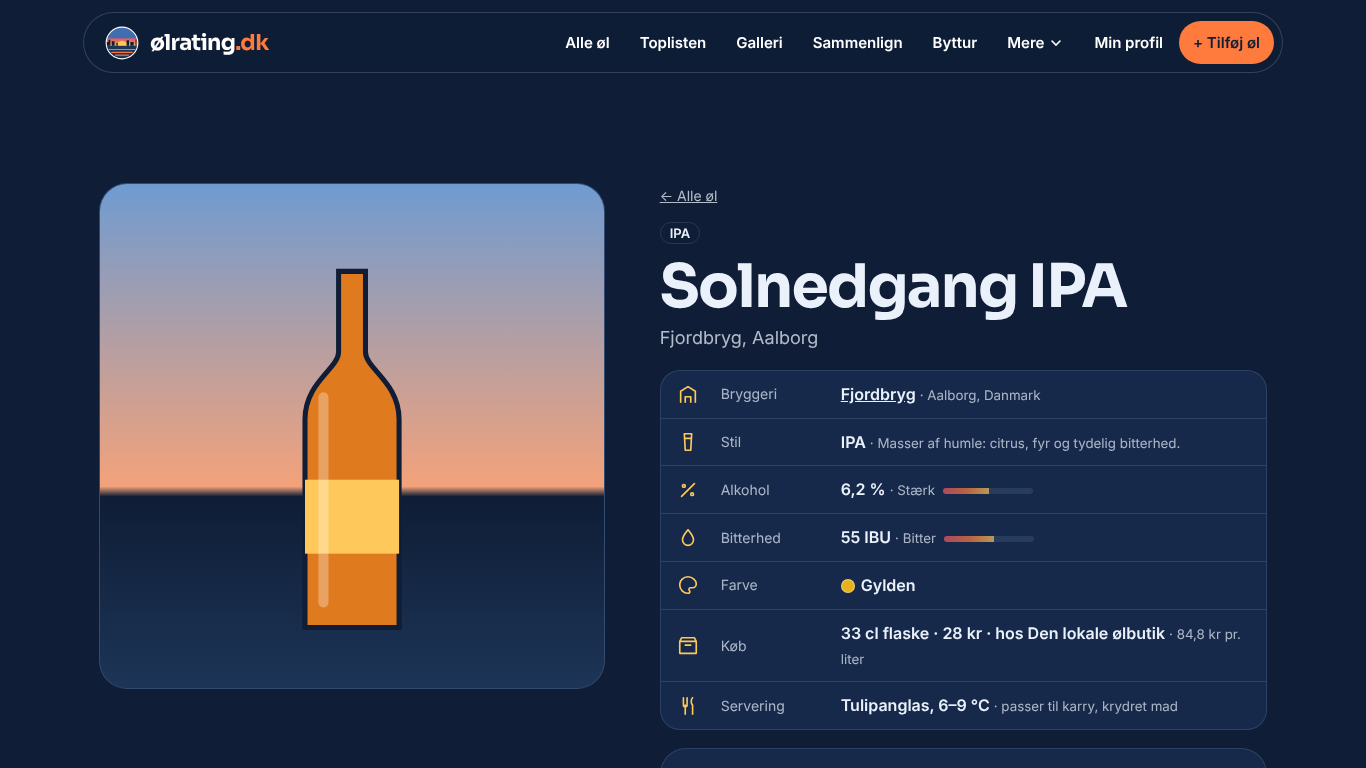
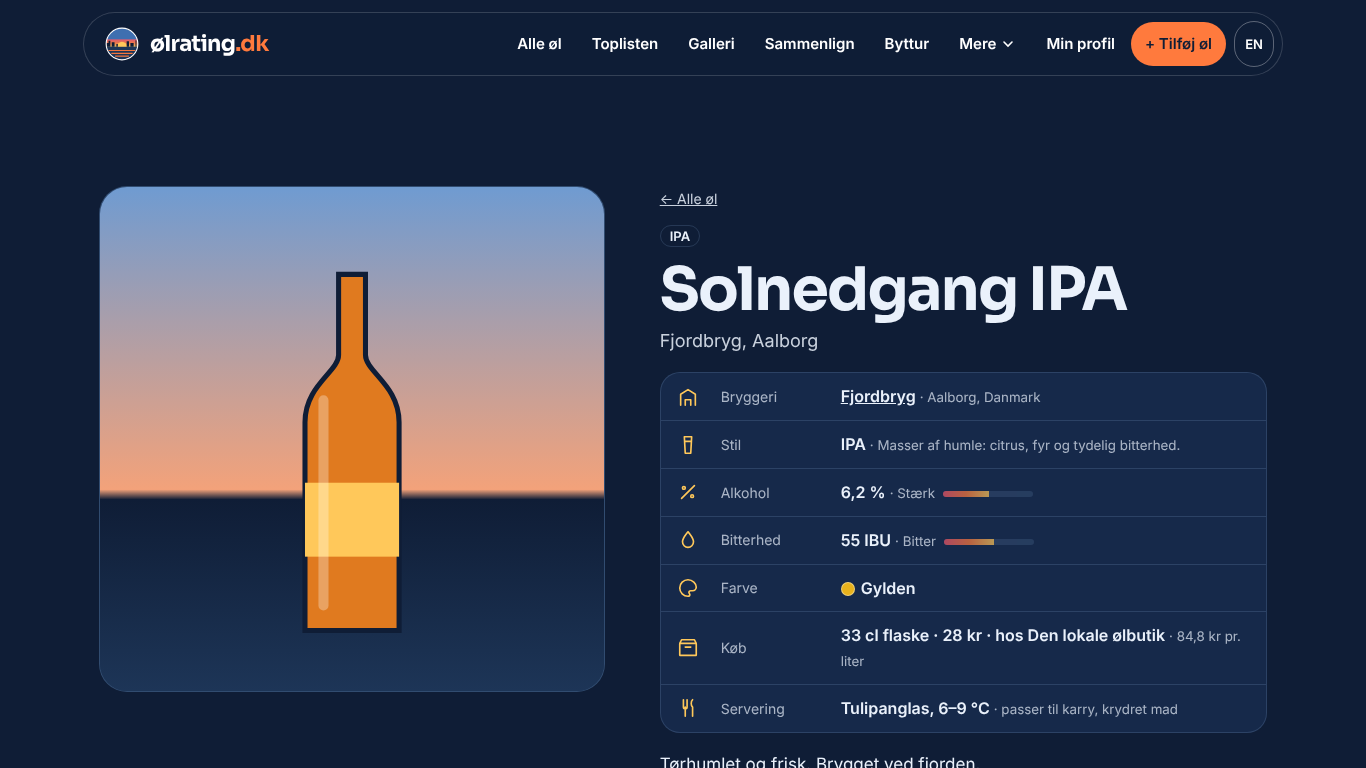
Microsoft Store: tekster og skærmbilleder på engelsk, script der laver skærmbillederne
Claude-Session: https://claude.ai/code/session_011iMT47q5r8UqEK89kfYnMe

diff --git a/store/lav-skaermbilleder.py b/store/lav-skaermbilleder.py
@@ -1,0 +1,42 @@
+"""Laver skærmbillederne til Microsoft Store (1366 x 768) på dansk (store/) og engelsk (store/en/).
+Øl, bryggerier, barer og navne er opdigtede eksempler. Intet bliver sendt til den rigtige database.
+Kør:  python3 -m http.server 8811 &   og derefter   python3 store/lav-skaermbilleder.py"""
+import os,sys,json,datetime
+ROOT=os.path.dirname(os.path.dirname(os.path.abspath(__file__)));sys.path.insert(0,os.path.join(ROOT,'tests'))
+from mock_supabase import Mock,HOST
+from playwright.sync_api import sync_playwright
+URL=os.environ.get('SITE','http://localhost:8811/')
+NOW=datetime.datetime(2026,11,22,19,30)
+SEED="""(lang=>{const S={beers:[],reviews:[],me:'Lucas',lang,season:'none',wish:['b5'],follow:['Magnus'],units:[],tours:[],tast:[]};
+ const B=(id,name,brewery,style,abv,x={})=>S.beers.push({id,name,brewery,style,city:x.city||'Aalborg',country:'Danmark',abv,ibu:x.ibu||0,color:x.color||'',price:x.price||0,place:x.place||'',size:x.size||'33 cl flaske',desc:x.desc||'',code:'',af:!!x.af,date:x.date||'2026-10-02',addedBy:x.by||'Lucas',img:''});
+ B('b1','Mørk Fjord Stout','Fjordbryg','Stout',7.5,{ibu:40,color:'Sort',price:32,size:'50 cl flaske'});
+ B('b2','Solnedgang IPA','Fjordbryg','IPA',6.2,{ibu:55,color:'Gylden',price:28,place:'Den lokale ølbutik',desc:'Tørhumlet og frisk. Brygget ved fjorden.'});
+ B('b3','Bropillen Porter','Fjordbryg','Porter',6.8,{ibu:35,color:'Brun',by:'Emma'});
+ B('b4','Havnepilsner','Kajens Bryghus','Pilsner',4.8,{ibu:25,color:'Lys',city:'Nørresundby',by:'Magnus'});
+ B('b5','Vestenvind Pale Ale','Nordenvind','Pale Ale',5.4,{ibu:38,color:'Rav',city:'Løkken',by:'Magnus'});
+ B('b6','Julebryg fra Kajen','Kajens Bryghus','Juleøl',6.0,{color:'Rød',city:'Nørresundby',date:'2026-11-06',by:'Magnus'});
+ B('b7','Fri Fjord','Fjordbryg','Hvede',0.4,{af:true,color:'Lys',by:'Emma'});
+ let n=0;const R=(beer,who,s,date,x={})=>S.reviews.push({id:'r'+(n++),beer,who,date,s:{look:s[0],aroma:s[1],taste:s[2],feel:s[3],overall:s[4]},prof:x.prof||null,tags:x.tags||[],again:x.again??1,text:x.text||'',img:''});
+ R('b1','Lucas',[5,5,5,4,5],'2026-11-14',{tags:['Chokolade','Ristet','Kaffe'],prof:{sweet:3,bitter:3,sour:1,body:5,roast:5},text:'Blød og mørk. Smager af kaffe og mørk chokolade.'});R('b1','Magnus',[5,4,5,5,4],'2026-11-15',{tags:['Ristet']});
+ R('b2','Lucas',[5,5,5,4,5],'2026-11-20',{tags:['Citrus','Bitter','Frugtig'],prof:{sweet:2,bitter:4,sour:2,body:3,roast:1},text:'Frisk og fuld af citrus. Perfekt på kajen i aftensolen.'});R('b2','Magnus',[4,5,4,4,5],'2026-11-18',{tags:['Citrus']});R('b2','Emma',[4,4,5,4,4],'2026-11-12',{tags:['Frugtig']});
+ R('b3','Emma',[4,4,5,4,4],'2026-11-10',{tags:['Ristet','Kaffe']});
+ R('b4','Magnus',[4,4,4,4,4],'2026-11-08',{tags:['Frisk','Let']});R('b4','Lucas',[4,4,4,3,4],'2026-11-09',{tags:['Frisk']});
+ R('b5','Magnus',[4,4,4,4,3],'2026-11-05',{tags:['Frugtig']});R('b5','Emma',[4,4,4,4,4],'2026-11-07');
+ R('b6','Magnus',[4,4,4,3,4],'2026-11-21',{tags:['Krydret','Karamel'],text:'Årets første juleøl. Krydret og rund.'});R('b6','Emma',[4,3,4,4,4],'2026-11-21');
+ R('b7','Emma',[4,3,4,3,4],'2026-11-16',{tags:['Frisk']});
+ S.tast=[{id:'julefrokost26',name:'Julefrokost 2026',host:'Lucas',blind:true,revealed:true,beers:['Julebryg fra Kajen','Solnedgang IPA','Mørk Fjord Stout','Havnepilsner'],votes:{Lucas:[4,5,4,3],Magnus:[4,4,5,4],Emma:[3,5,4,3],Oliver:[4,4,4,4]}}];
+ S.tours=[{id:'julefrokosttur',name:'Julefrokost-tur i Aalborg',date:'2026-12-11T19:00',meet:'Ved havnefronten',note:'Husk julesweater!',host:'Lucas',stops:[{name:'Havnebaren',time:'19:00',addr:''},{name:'Bryggerhjørnet',time:'20:30',addr:''},{name:'Kælderen',time:'22:00',addr:''}],members:[{name:'Lucas'},{name:'Magnus'},{name:'Emma'},{name:'Oliver'}]}];
+ localStorage.setItem('olrating-v1',JSON.stringify(S))})"""
+SHOTS=[('1-forside','',0),('2-alle-oel','#alle',-1),('3-oel','#beer-b2',0),('4-smagning','#smagning-julefrokost26',0),('5-byttur','#byttur-julefrokosttur',0),('6-profil','#profil',0),('7-aarets-oel','#aarets',0)]
+with sync_playwright() as p:
+    b=p.chromium.launch()
+    for lang,folder in [('da',''),('en','en')]:
+        out=os.path.join(ROOT,'store',folder); os.makedirs(out,exist_ok=True)
+        c=b.new_context(viewport={'width':1366,'height':768},service_workers='block',reduced_motion='reduce'); c.route(f'https://{HOST}/**',Mock().handle)
+        pg=c.new_page(); pg.clock.set_fixed_time(NOW); pg.goto(URL); pg.wait_for_timeout(600); pg.evaluate(SEED,lang); pg.reload(); pg.wait_for_timeout(1500)
+        for name,h,scroll in SHOTS:
+            pg.goto(URL+h); pg.wait_for_timeout(900)
+            if scroll==-1: pg.evaluate("window.scrollTo(0,document.getElementById('alle').getBoundingClientRect().top+scrollY-90)"); pg.wait_for_timeout(300)
+            pg.screenshot(path=os.path.join(out,name+'.png')); print(lang,name)
+        c.close()
+    b.close()

diff --git a/docs/STORE.md b/docs/STORE.md
@@ -4,7 +4,7 @@ Alt, der skal bruges for at få ølrating i Microsoft Store. Teksterne kan kopie
 
 ## Status
 - [x] Udviklerkonto hos Microsoft (Lucas)
-- [x] Tekster og skærmbilleder (denne fil og mappen `store/`)
+- [x] Tekster og skærmbilleder på dansk og engelsk (denne fil og mappen `store/`)
 - [x] Bygning af pakken er sat op på GitHub (`desktop/store-build.js`), med ikoner til Store i `desktop/build/appx/`
 - [ ] Navnet reserveret i Partner Center
 - [ ] De tre værdier fra *Produktidentitet* lagt ind i `desktop/store.json`
@@ -49,14 +49,15 @@ Tag et billede af øllen, giv den karakter fra 1 til 5 for udseende, duft, smag,
 Det kan du:
 • Bedømme øl med billede, smagsord og smagsprofil
 • Se toplisten, også kun for lyse, mørke eller alkoholfri øl
+• Se årets øl, årets bryggeri og årets stil
 • Få forslag til øl, du nok vil kunne lide, ud fra dine egne karakterer
 • Holde blindsmagning med vennerne, hvor alle stemmer på deres egen telefon
-• Planlægge en bytur med rute, tidspunkter og tilmelding
+• Planlægge en bytur med rute, tidspunkter og tilmelding, og gemme den som et minde bagefter
 • Følge dine venner og se, hvem du er mest enig med
 • Holde øje med dine genstande med en tæller, der bygger på Sundhedsstyrelsens anbefalinger
 • Have en lille widget på skrivebordet med ugens øl og toplisten
 
-ølrating har ingen reklamer og ingen sporing. Du skal ikke oprette en konto.
+ølrating har ingen reklamer og ingen sporing. Du skal ikke oprette en konto. Appen findes på dansk og engelsk.
 
 Nyd øl med omtanke. Appen er for voksne.
 
@@ -73,19 +74,61 @@ Første version i Microsoft Store.
 - Widget med ugens øl
 - Genstand-tæller
 
+## Tekster til butikssiden (engelsk)
+Appen findes nu også på engelsk. Tilføj sproget **English** under butikssider i Partner Center, og brug teksterne her.
+
+**Name:** ølrating
+
+**Short description (max. 200 characters):**
+Rate the beers you drink with a photo and a score. See the top list, hold tastings with friends, plan a pub crawl, and follow what the others are tasting.
+
+**Description:**
+ølrating is the place for people who like beer and want to remember what they have tasted.
+
+Take a photo of the beer, rate it from 1 to 5 for look, aroma, taste, body and overall, and see what others think of it. All ratings are gathered in a shared top list.
+
+What you can do:
+• Rate beers with a photo, tasting notes and a flavour profile
+• See the top list, also for pale, dark or alcohol-free beers only
+• See the beer, brewery and style of the year
+• Get suggestions for beers you will probably like, based on your own ratings
+• Hold a blind tasting with friends, where everyone votes on their own phone
+• Plan a pub crawl with a route, times and sign-up, and keep it as a memory afterwards
+• Follow your friends and see who you agree with the most
+• Keep track of your units with a counter based on the Danish Health Authority's recommendations
+• Keep a small widget on the desktop with the beer of the week and the top list
+
+ølrating has no ads and no tracking. You don't need to create an account. The app is available in Danish and English.
+
+Enjoy beer responsibly. The app is for adults.
+
+**What's new in this version:**
+First version in Microsoft Store.
+
+**Search terms (max. 7):** beer, beer rating, brewery, tasting, top list, pub crawl, craft beer
+
+**Features (short points):**
+- Rate beers with a photo and a score
+- Shared top list and Beer of the year
+- Blind tasting with friends
+- Pub crawl with route and sign-up
+- Widget with the beer of the week
+- Unit counter
+
 ## Skærmbilleder
-Ligger i mappen `store/` i størrelsen 1366 × 768, som Store kræver som minimum.
+Ligger i mappen `store/` (dansk) og `store/en/` (engelsk) i størrelsen 1366 × 768, som Store kræver som minimum. De laves med `python3 store/lav-skaermbilleder.py`, så de kan laves om, når siden ændrer sig.
 
 | Fil | Viser |
 |---|---|
 | `1-forside.png` | Forsiden med ugens øl |
-| `2-alle-oel.png` | Listen over øl |
+| `2-alle-oel.png` | Listen over øl og toplisten |
 | `3-oel.png` | En øl med oplysninger |
 | `4-smagning.png` | Resultatet af en blindsmagning |
 | `5-byttur.png` | En bytur med rute og deltagere |
-| `6-profil.png` | Min profil med forslag |
+| `6-profil.png` | Min profil |
+| `7-aarets-oel.png` | Årets øl |
 
-**Bemærk:** Øllene, bryggerierne og navnene på billederne er opdigtede eksempler, lavet kun til skærmbillederne. De findes ikke på den rigtige side. Skift dem gerne ud med rigtige skærmbilleder, når der er kommet øl på ølrating.dk.
+**Bemærk:** Øllene, bryggerierne, barerne og navnene på billederne er opdigtede eksempler, lavet kun til skærmbillederne. De findes ikke på den rigtige side. Skift dem gerne ud med rigtige skærmbilleder, når der er kommet øl på ølrating.dk.
 
 ## Logo
 Store laver selv de fleste størrelser ud fra app-ikonet. Brug `img/icon-512.png`, hvis der bliver bedt om et billede.

diff --git a/CHANGELOG.md b/CHANGELOG.md
@@ -4,6 +4,10 @@ Nyeste øverst. Hver ny ting skrives her i samme commit, som den laves i.
 
 ## 2026-11-26
 
+### Formiddag (10:21–10:22): Microsoft Store på engelsk
+- **Tekster til Store på engelsk** står nu i `docs/STORE.md`, og de danske tekster nævner Årets øl, minder og de to sprog.
+- **Nye skærmbilleder** på dansk (`store/`) og engelsk (`store/en/`), nu 7 af hver, med Årets øl og sprogknappen. De laves af `store/lav-skaermbilleder.py` og kan laves om, når siden ændrer sig. Eksemplerne er stadig opdigtede.
+
 ### Formiddag (10:15–10:13): hurtigere og pænere
 - **Hurtigere med mange øl:** Min profil tog over et halvt sekund at åbne med 400 øl og 1.200 bedømmelser. Nu tager den omkring en fjerdedel af tiden. Listen over øl med gennemsnit bliver regnet ud én gang pr. side i stedet for én gang pr. bedømmelse.
 - **Byttur:** Felterne til et nyt stop var så smalle på pc, at teksten i dem blev skåret af. De står nu i to rækker.
